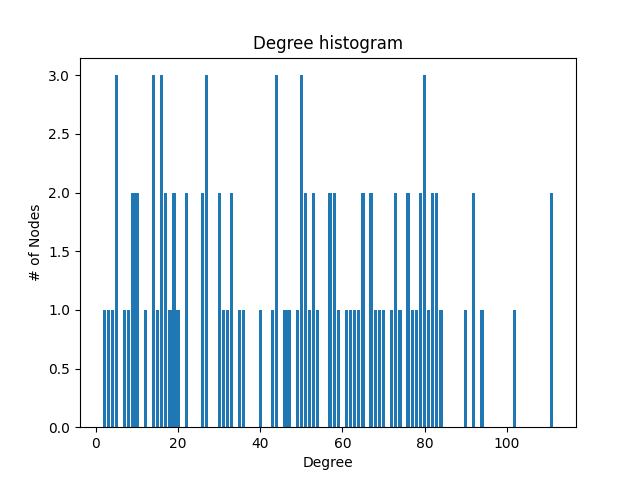
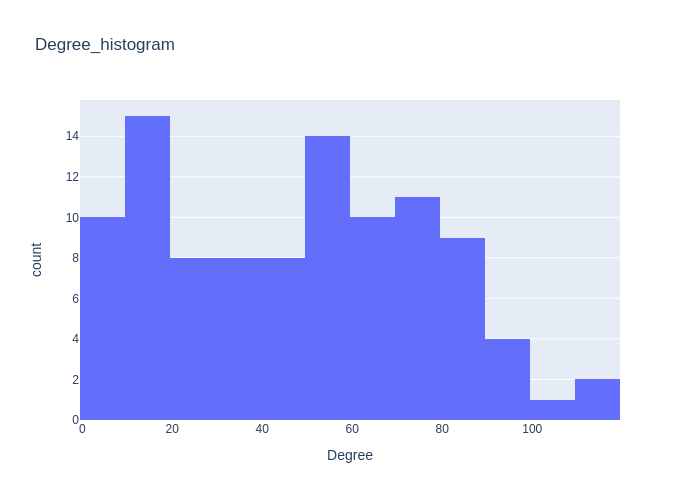
images to png format

diff --git a/tester.py b/tester.py
@@ -63,7 +63,7 @@ def save_bar_figure_html(data, file_name):
     """
   data = pd.DataFrame(data=data.values(),columns=[file_name])
   fig = px.histogram(data,x = file_name,title=file_name+" histogram")
-  fig.write_html("./figures/"+file_name+".html")
+  fig.write_image("./figures/"+file_name+".png")
 
 if __name__ == "__main__":
    user = TwitterUser()
@@ -95,7 +95,7 @@ if __name__ == "__main__":
    plt.close()
    ds_df = pd.DataFrame(data=degree_sequence,columns=["Degree"])
    fig = px.histogram(ds_df,x="Degree",title="Degree_histogram")
-   fig.write_html("./figures/Degree histogram.html")
+   fig.write_image("./figures/Degree histogram.png")
 
 
    # Clustering Coefficient
